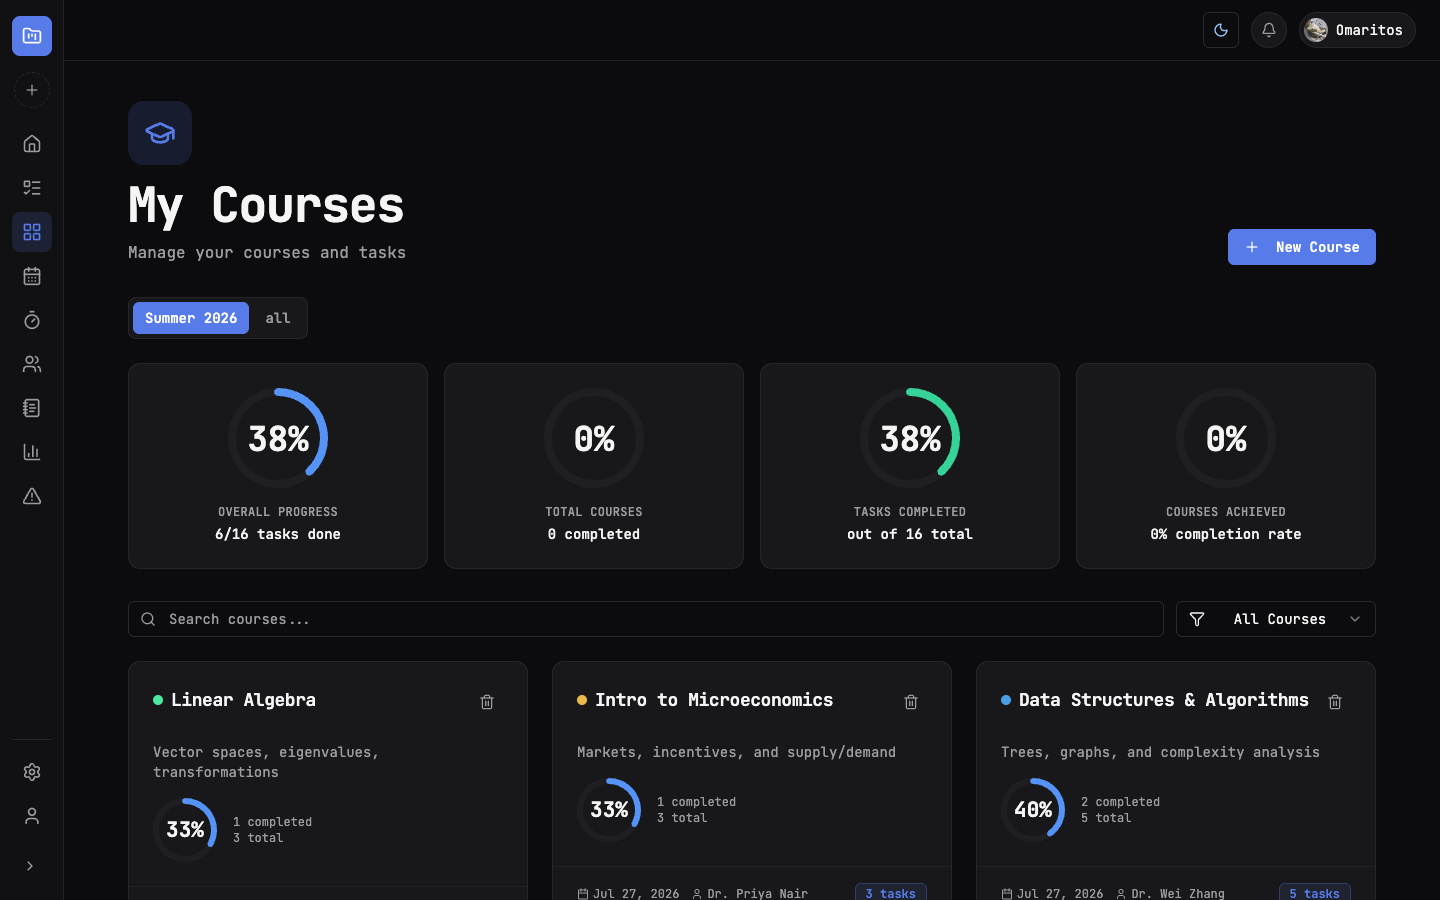
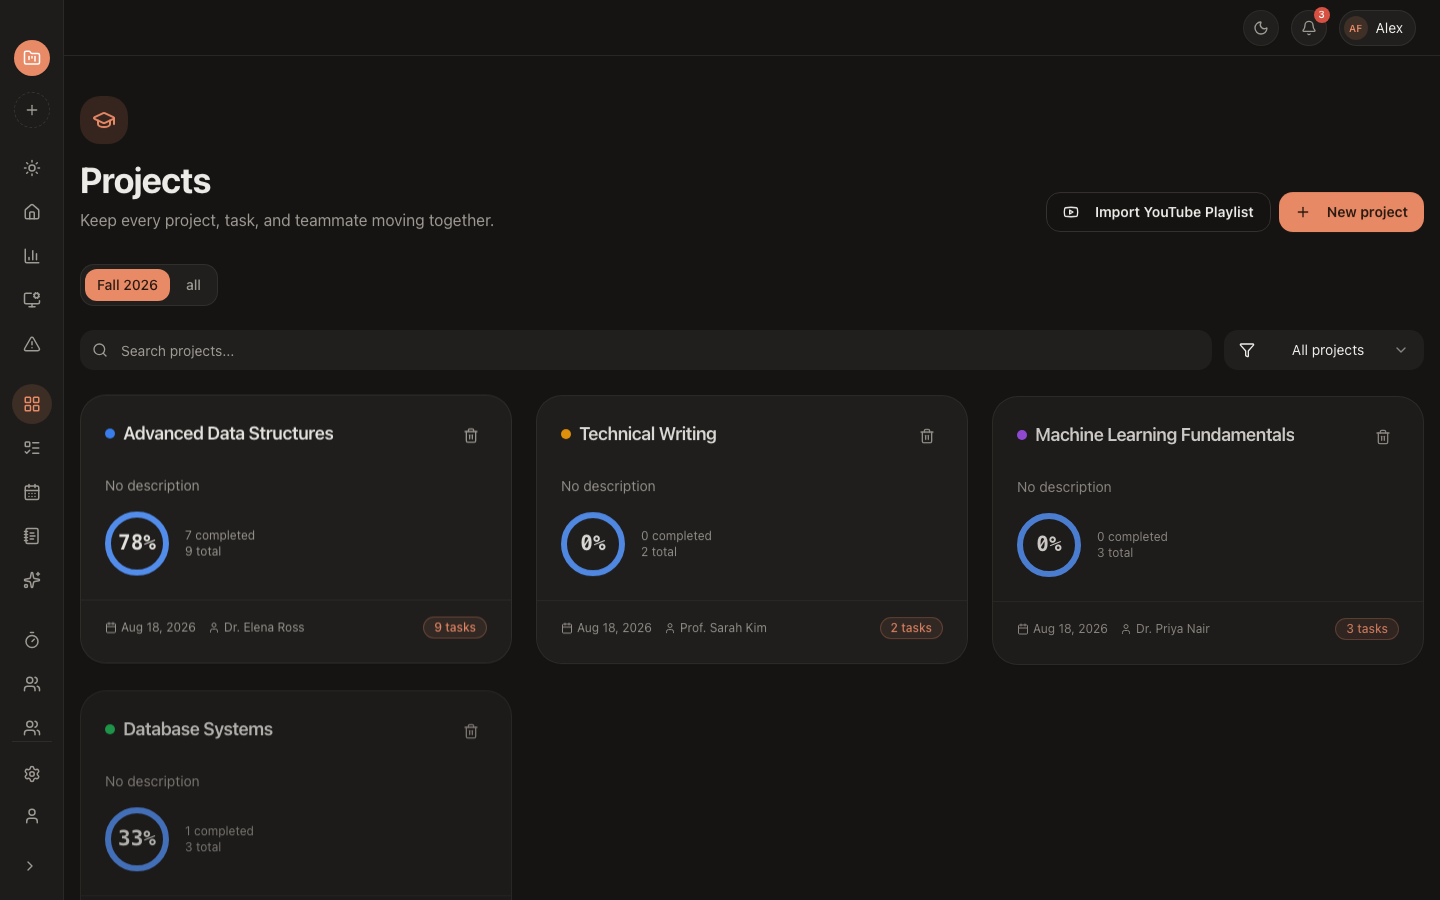
Refresh README screenshots to match the current app, add Circles + Widget
The existing screenshots predated a lot of UI work — blue accent instead
of orange, no Notes/Summaries/Insights/Circles in nav, "Courses" instead
of "Projects", Circles missing entirely. Recaptured all 7 existing shots
plus two new ones (redesigned Circles, desktop Widget) directly from the
running app via a small Playwright script driving a seeded local demo
account, all at 1440x900 to match the original set (widget at its real
368x480 window size).

diff --git a/README.md b/README.md
@@ -17,11 +17,11 @@ Started as a generic project/task manager and evolved into a student-focused stu
 
 <table>
   <tr>
-    <td width="50%"><img src="docs/screenshots/dashboard.png" alt="Dashboard"/><p align="center"><sub>Dashboard — everything due, at a glance</sub></p></td>
+    <td width="50%"><img src="docs/screenshots/dashboard.png" alt="Today"/><p align="center"><sub>Today — your next best action, at a glance</sub></p></td>
     <td width="50%"><img src="docs/screenshots/tasks-kanban.png" alt="Kanban board"/><p align="center"><sub>Tasks — drag-and-drop Kanban board</sub></p></td>
   </tr>
   <tr>
-    <td width="50%"><img src="docs/screenshots/courses.png" alt="Courses"/><p align="center"><sub>Courses — per-course progress rings</sub></p></td>
+    <td width="50%"><img src="docs/screenshots/courses.png" alt="Projects"/><p align="center"><sub>Projects — per-course progress rings</sub></p></td>
     <td width="50%"><img src="docs/screenshots/calendar.png" alt="Calendar"/><p align="center"><sub>Calendar — every due date, one month at a time</sub></p></td>
   </tr>
   <tr>
@@ -30,9 +30,13 @@ Started as a generic project/task manager and evolved into a student-focused stu
   </tr>
   <tr>
     <td width="50%"><img src="docs/screenshots/friends.png" alt="Friends"/><p align="center"><sub>Friends — send/accept requests, invite into rooms</sub></p></td>
-    <td width="50%"></td>
+    <td width="50%"><img src="docs/screenshots/circles.png" alt="Circles"/><p align="center"><sub>Circles — a private team space with shared time and a daily notes log</sub></p></td>
   </tr>
 </table>
+
+**Desktop app** — the same account, packaged as a native macOS menu-bar companion (Tauri). A persistent widget follows you outside the browser: a compact focus timer when a Pomodoro session is running, and an expandable panel for tasks, Focus Room chat, and quick notes without switching windows.
+
+<p align="center"><img src="docs/screenshots/widget.png" alt="Desktop widget" width="300"/><br/><sub>Desktop widget — tasks, chat, and notes in a menu-bar panel</sub></p>
 
 The landing page also ships its own animated product tour (`components/landing/ScreensShowcase.jsx`) built from the same design tokens and components as the real app, auto-cycling through the screens above.
 
